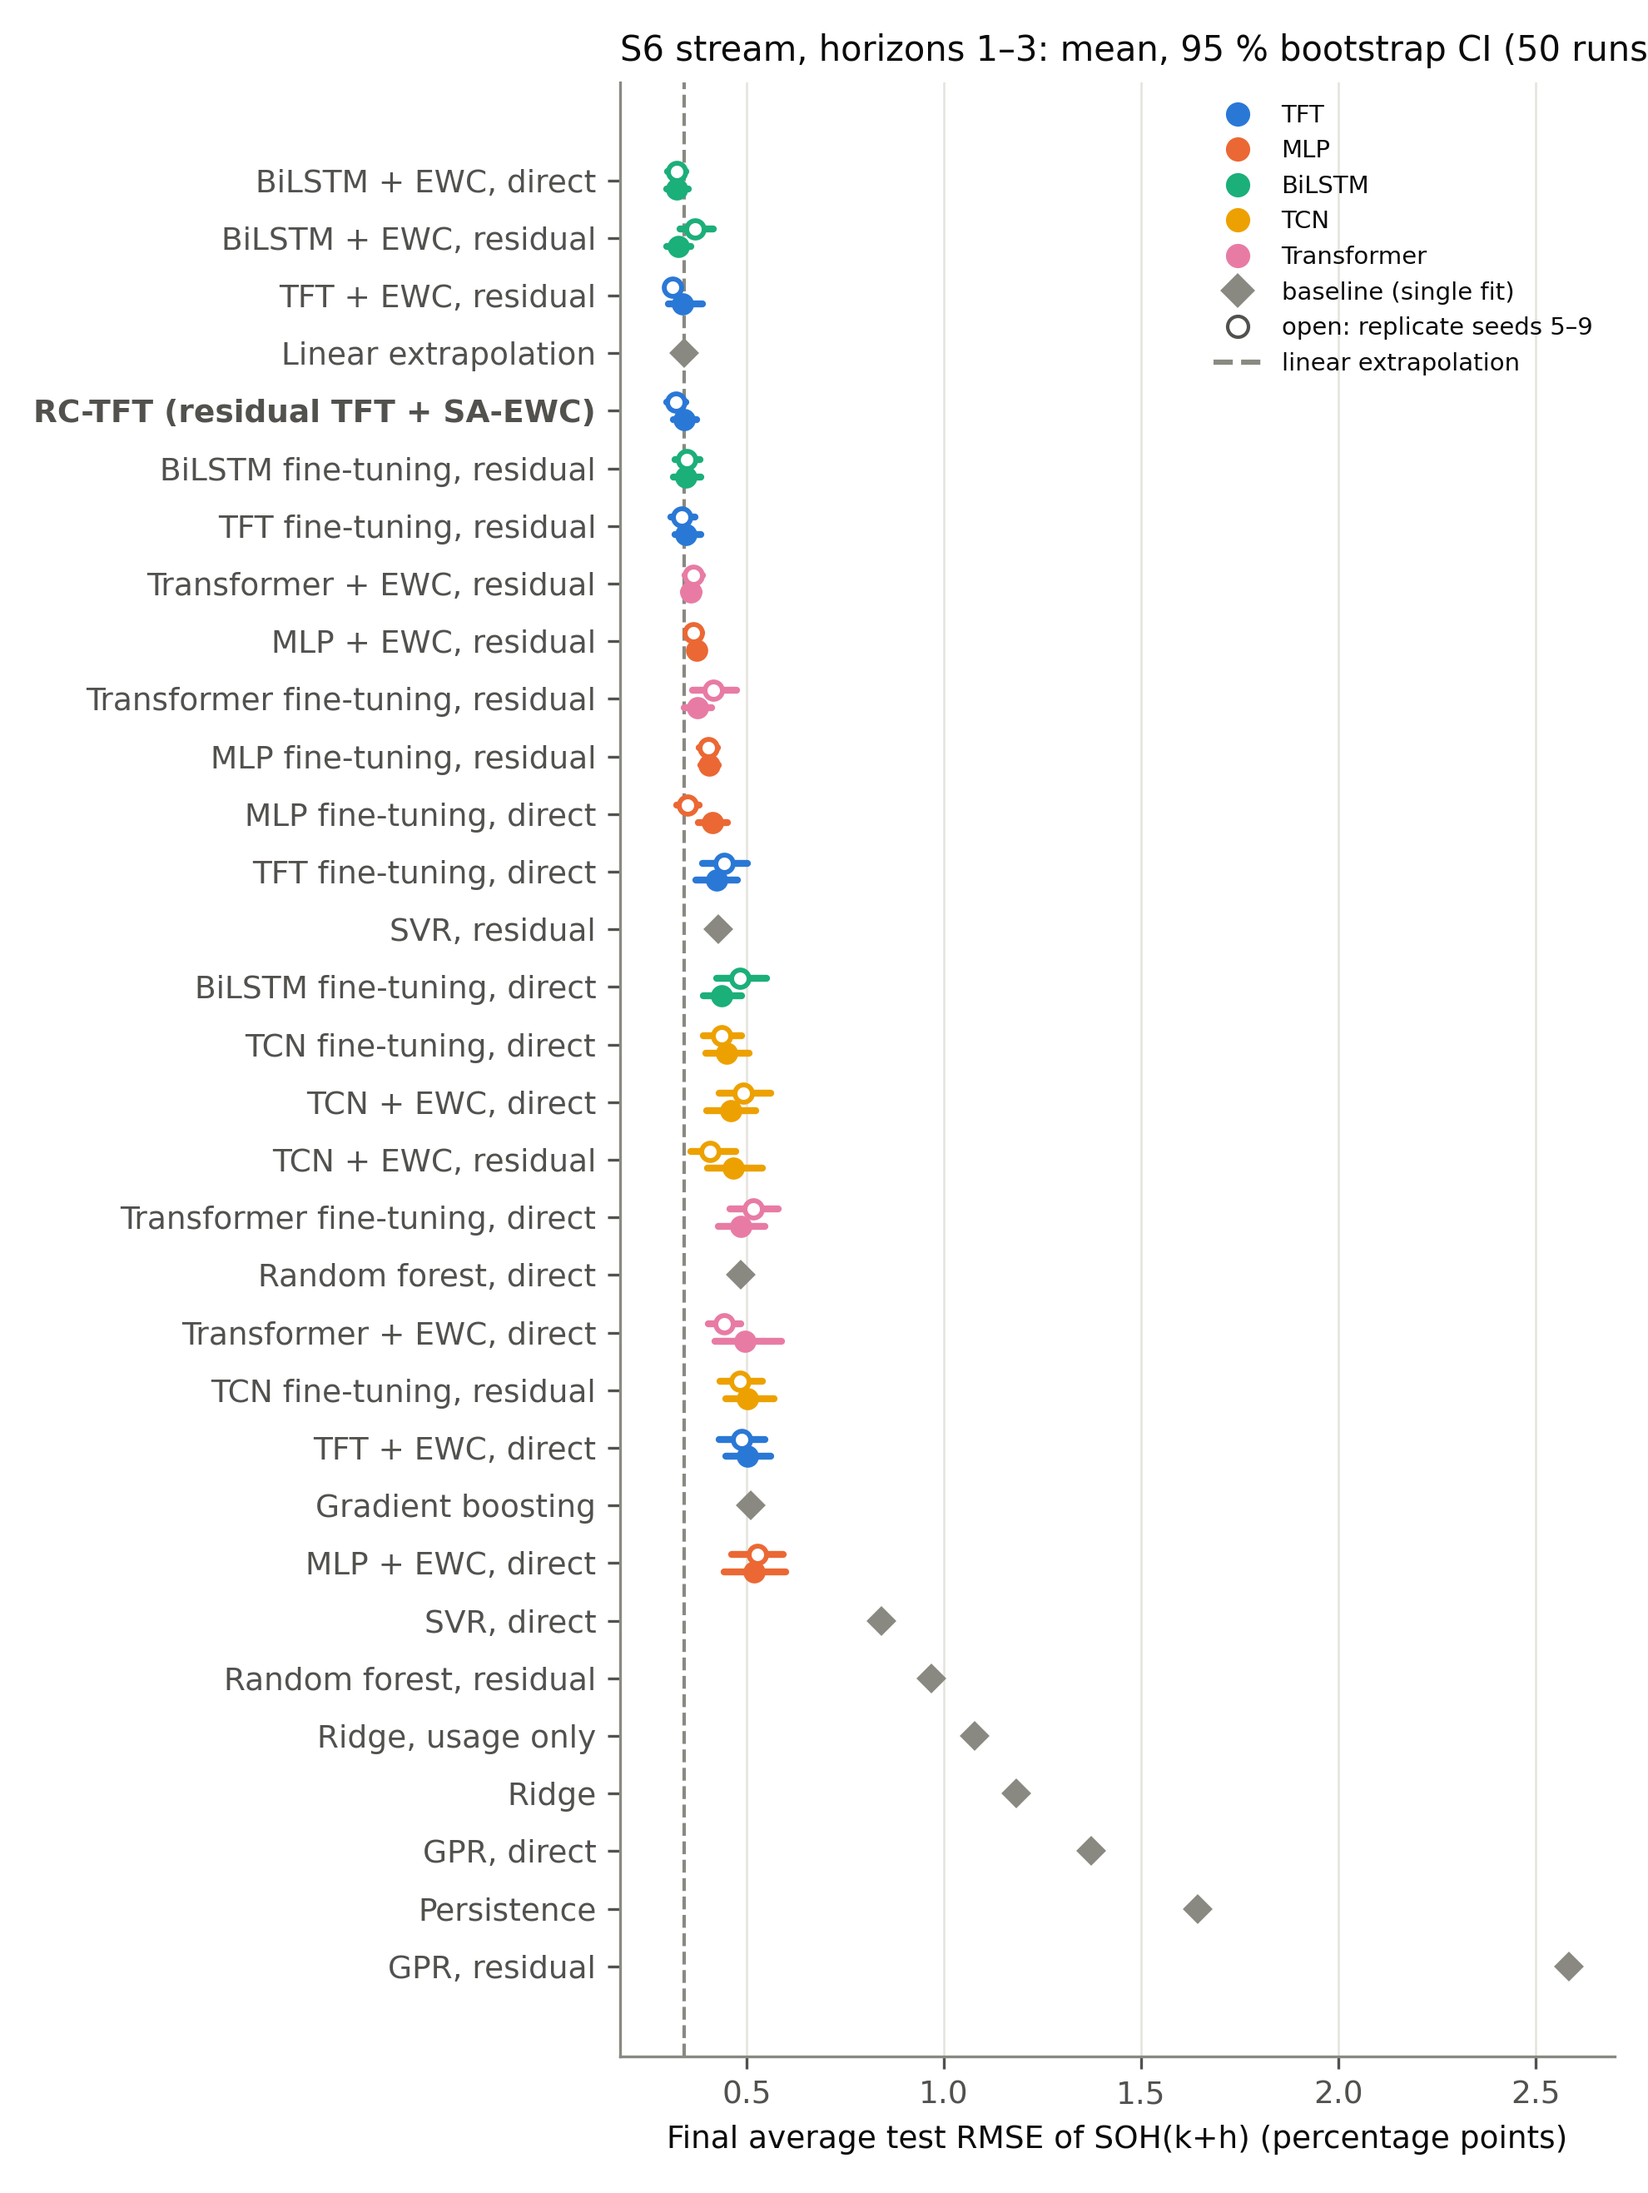
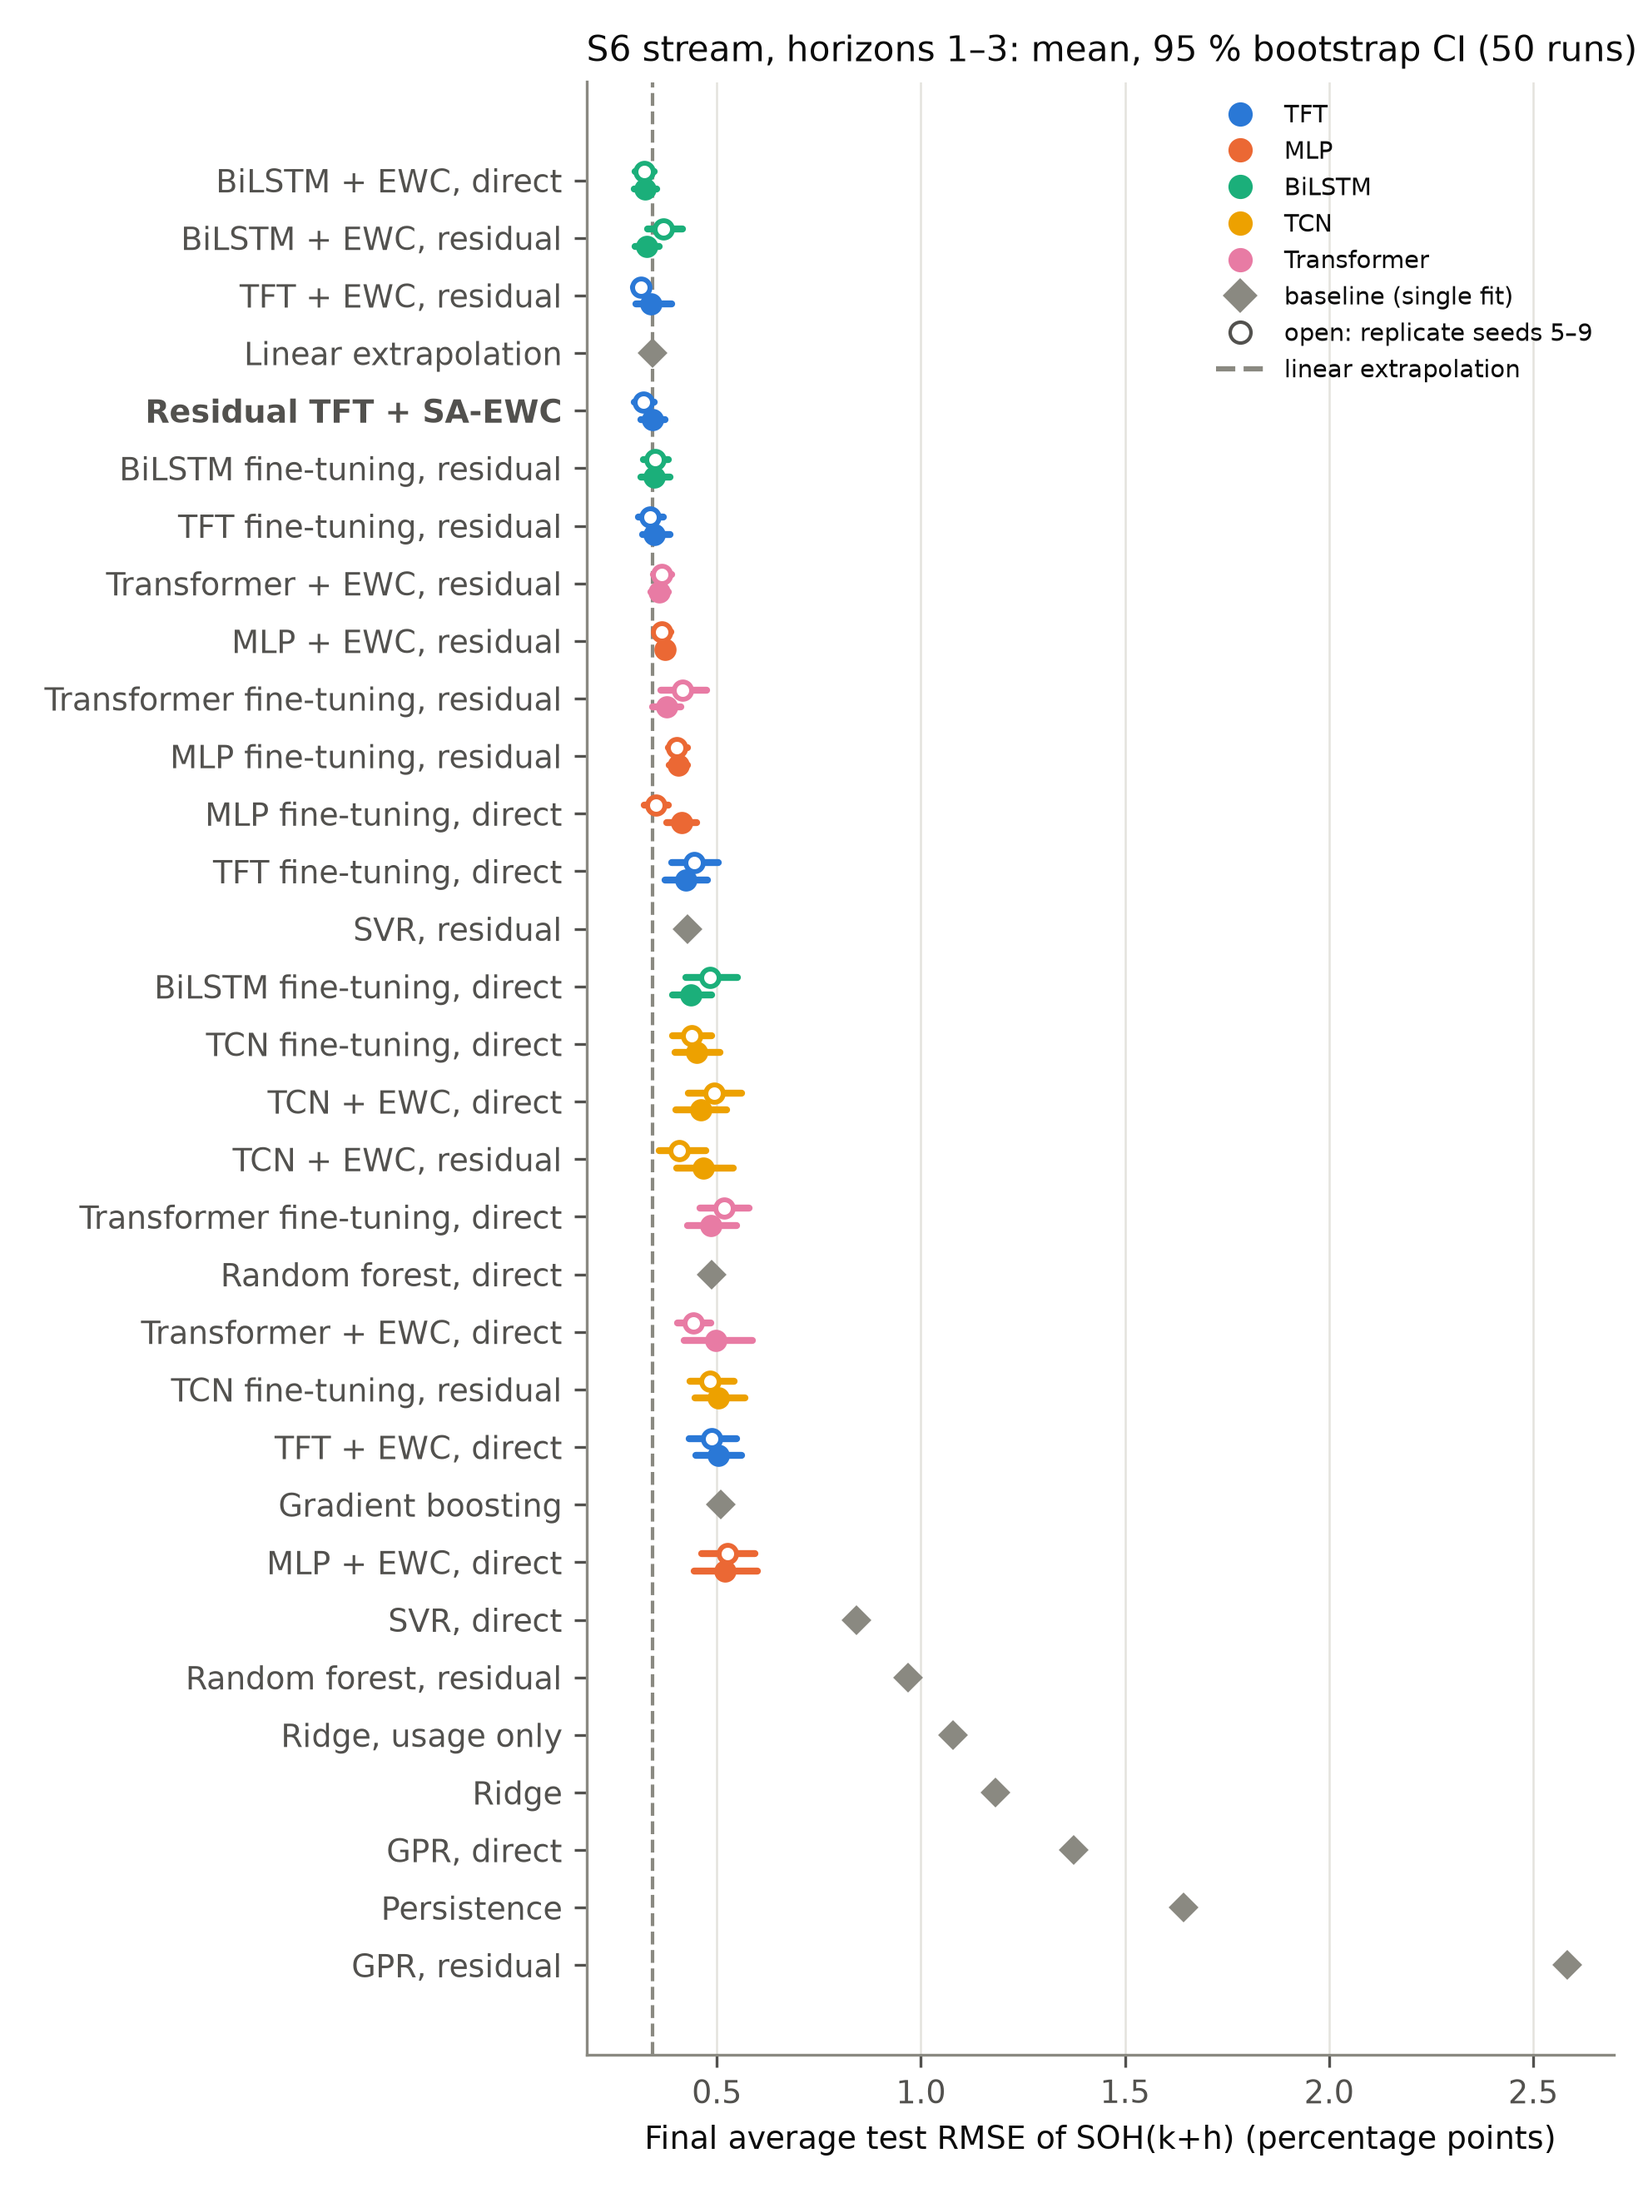
D24 per-group figures: one arm per method (residual + EWC for every learned backbone, baselines in residual or only form); other arms stay in the tables; regenerated outputs carry the residual TFT + SA-EWC label

diff --git a/scripts/make_d24_outputs.py b/scripts/make_d24_outputs.py
@@ -11,7 +11,7 @@ Outputs (never edited by hand):
   replication verdict.
 - ``results/tables/d24_per_group_<exp>.csv`` and ``.tex``: test RMSE of every S6 test case after the last stream step
   (main seeds, mean over runs), as CLAUDE.md requires per-group reporting.
-- ``paper/figures/d24_comparison_<exp>.png``, ``d24_per_group_<exp>.png``, ``d24_forgetting_<exp>.png`` and, for E2,
+- ``paper/figures/d24_comparison_<exp>.png``, ``d24_per_group_<exp>.png`` (residual + EWC arms and baselines only), ``d24_forgetting_<exp>.png`` and, for E2,
   ``d24_horizon_e2.png``; ``spark_scaling.png`` when ``results/d22_spark_scaling.json`` exists.
 
 Colours (validated categorical slots 1-5, adjacent pairs; fixed order, never cycled): TFT blue, MLP orange, BiLSTM
@@ -271,6 +271,9 @@ def fig_comparison(exp: str, d: dict, comp: pd.DataFrame) -> Path:
 
 
 def fig_per_group(exp: str, grp: pd.DataFrame) -> Path:
+    # One arm per method, the same rule for every backbone: the residual + EWC arm of each learned model and each
+    # baseline's residual (or only) form. Fine-tuning, direct and usage-only arms stay in the CSV and .tex tables.
+    grp = grp[~grp.index.str.contains("fine-tuning|, direct|usage only")]
     cases = [c for c in grp.columns if c != "mean"]
     v = grp[cases].to_numpy(float)
     fig, ax = plt.subplots(figsize=(6.6, 0.24 * len(grp) + 1.2))
@@ -286,7 +289,8 @@ def fig_per_group(exp: str, grp: pd.DataFrame) -> Path:
     ax.grid(False)
     cb = fig.colorbar(im, ax=ax, fraction=0.03, pad=0.02)
     cb.set_label("Test RMSE (pp)")
-    ax.set_title("Per test case after the last stream step (main seeds)", loc="left")
+    ax.set_title("Per test case after the last stream step (main seeds)\n"
+                 "residual + EWC arms and baselines; other arms in the table", loc="left")
     fig.tight_layout()
     out = FIG / f"d24_per_group_{exp}.png"
     fig.savefig(out)
